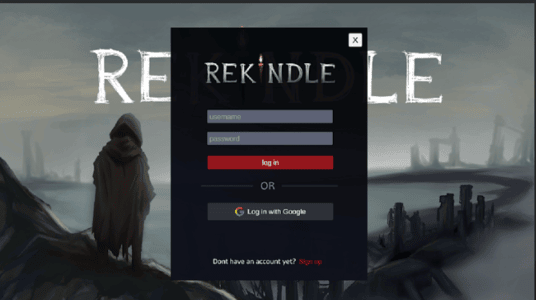
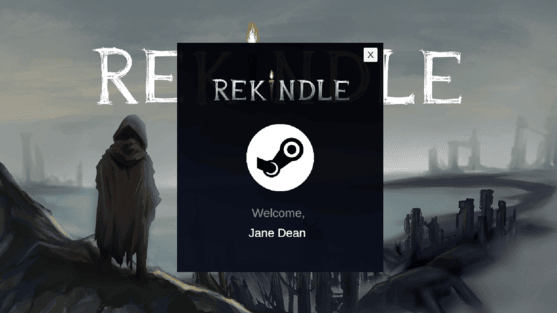
Update account-authentication.md
replace the mockup image display in the account authentication with the updated one

diff --git a/docs/account-authentication.md b/docs/account-authentication.md
@@ -28,7 +28,8 @@
            <br> <br>
           <img src="images/account-authentication.png">
           <h3>Account Authentication</h3>
-        <span>Users can create an account linked to their Google account. The given account will be authenticated with an Authentication API and an account for the game will be made once verified.</span>
+        <span>Users can create an account linked to their Steam account. The given account will be authenticated with an authentication API and Steam Cloud integration, and an account for the game will be created once verified.
+       </span>
         </td>
     </tr>
     <tr>
